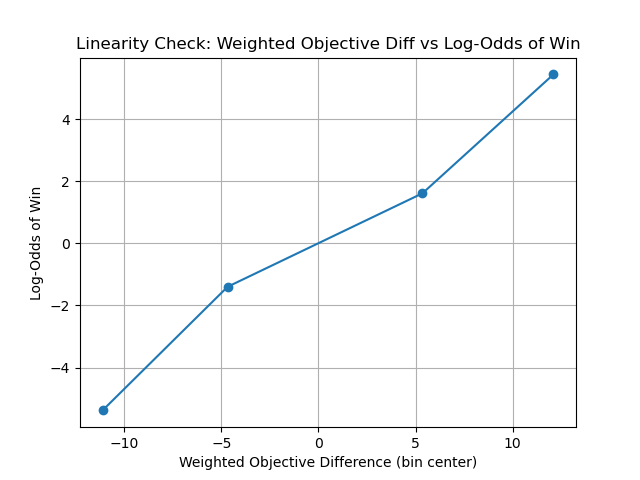
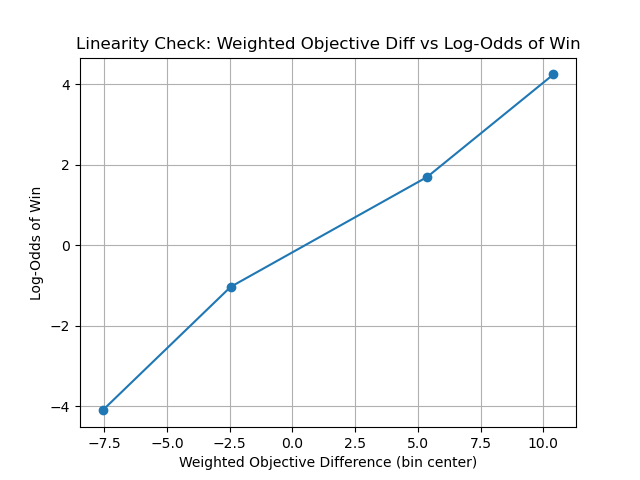
Looking into better version of the weighted obj diff metric, will clean up later

diff --git a/FeatureEng.py b/FeatureEng.py
@@ -1,6 +1,8 @@
 import pandas as pd
 import numpy as np
 from sklearn.preprocessing import StandardScaler
+import seaborn as sns
+import matplotlib.pyplot as plt
 
 teamdf = pd.read_csv('Data/teamdata')
 
@@ -33,16 +35,19 @@ teamdf['weighted_multikill'] = (
     4 * teamdf['pentakills']
 )
 
-# objective control metric
+
+# adjust obj control metric to look at if a team gets soul or not rather than number of dragons
+teamdf['dragonsoul'] = (teamdf['dragons'] == 4).astype(int)
 teamdf['weighted_objective_diff'] = (
-    (teamdf['dragons'] - teamdf['opp_dragons']) +
-    (teamdf['elders'] - teamdf['opp_elders']) * 2 +
-    (teamdf['heralds'] - teamdf['opp_heralds']) +
+    (teamdf['dragonsoul']) * 3 + 
+    (teamdf['elders'] - teamdf['opp_elders']) * 3 +
     (teamdf['barons'] - teamdf['opp_barons']) * 2 +
+    (teamdf['heralds'] - teamdf['opp_heralds']) +
     (teamdf['towers'] - teamdf['opp_towers']) +
     (teamdf['turretplates'] - teamdf['opp_turretplates']) +
-    (teamdf['inhibitors'] - teamdf['opp_inhibitors']) * 2
+    (teamdf['inhibitors'] - teamdf['opp_inhibitors'])
 )
+
 
 # game state at 10/15
 substring = 'at15'
@@ -108,14 +113,81 @@ scaled_df['gamestateat15'] = (scaled_df['golddiffat15'] +
                               scaled_df['deathdiffat15'])
 
 
+# what if you scaled everything and recalculated? would there be a significant difference?
+teamdf['dragonsoul'] = (teamdf['dragons'] == 4).astype(int)
 
+temp_binary_columns = ['dragonsoul'] #next add first to three towers, first mid tower, etc.
+continuous_columns = [col for col in teamdf.select_dtypes('number').columns if col not in temp_binary_columns]
 
-'''
-calculate metric for absolute gamestate @ 15
-- find diff between necessary items and then scale all items then add them?
-- in order to scale we can do standardization (z-score normalization) 
-        - only for lin models that have normally distributed data
-- or min-max scaling for distance related models like KNN
-- no need to scale for random forest, could be useful to scale the feature anyways
-'''
+scaler = StandardScaler()
+scaled_continuous = scaler.fit_transform(teamdf[continuous_columns])
 
+scaled_df = teamdf.copy()
+scaled_df[continuous_columns] = scaled_continuous  
+
+weights = {
+    'dragonsoul': 0.36,  
+    'elders': 0.075,
+    'barons': 0.62,
+    'inhibitors': 0.76,
+    'heralds': 0.24,
+    'towers': 0.89,
+    'turretplates': 0.26
+}
+
+# Create weighted objective difference
+scaled_df['weighted_objective_diff'] = (
+    (weights['dragonsoul'] * scaled_df['dragonsoul']) +
+    (weights['elders'] * (scaled_df['elders'] - scaled_df['opp_elders'])) +
+    (weights['barons'] * (scaled_df['barons'] - scaled_df['opp_barons'])) +
+    (weights['heralds'] * (scaled_df['heralds'] - scaled_df['opp_heralds'])) +
+    (weights['towers'] * (scaled_df['towers'] - scaled_df['opp_towers'])) +
+    (weights['turretplates'] * (scaled_df['turretplates'] - scaled_df['opp_turretplates'])) +
+    (weights['inhibitors'] * (scaled_df['inhibitors'] - scaled_df['opp_inhibitors']))
+)
+teamdf['weighted_objective_diff'] = scaled_df['weighted_objective_diff']
+
+selected_columns = ['dragonsoul', 'elders', 'barons', 'heralds', 'towers', 'turretplates', 'inhibitors', 'result']
+
+target = 'result'
+top_n = 20
+corr_matrix = teamdf[selected_columns].corr(numeric_only=True)
+
+top_corr = corr_matrix[target].sort_values(ascending=False).head(top_n)
+subset = corr_matrix.loc[top_corr.index, top_corr.index]
+
+plt.figure(figsize=(12,10))
+ax = sns.heatmap(
+    subset,
+    annot=True,
+    cmap='coolwarm',
+    linewidths=0.5
+)
+
+plt.xticks(rotation=45, ha='right', fontsize=10)
+plt.yticks(fontsize=10)
+plt.title(f'{top_n} Correlations w/ {target}')
+plt.tight_layout()
+plt.show()
+
+#______________
+target = 'result'
+top_n = 20
+corr_matrix = teamdf.corr(numeric_only=True)
+
+top_corr = corr_matrix[target].sort_values(ascending=False).head(top_n)
+subset = corr_matrix.loc[top_corr.index, top_corr.index]
+
+plt.figure(figsize=(12,10))
+ax = sns.heatmap(
+    subset,
+    annot=True,
+    cmap='coolwarm',
+    linewidths=0.5
+)
+
+plt.xticks(rotation=45, ha='right', fontsize=10)
+plt.yticks(fontsize=10)
+plt.title(f'{top_n} Correlations w/ {target}')
+plt.tight_layout()
+plt.show()

diff --git a/ValidatingMetrics.py b/ValidatingMetrics.py
@@ -1,8 +1,3 @@
-'''
-Seperate python file for the sake of organization and not having to run a large python file
-Evaluating linearity assumptions of data for feature engineering purposes
-'''
-
 import pandas as pd
 import numpy as np
 import seaborn as sns
@@ -28,15 +23,15 @@ teamdf['weighted_multikill'] = (
 )
 
 # objective control metric
-# can be improved because I don't think individual dragons matter until a team gets soul or soul point
+teamdf['dragonsoul'] = (teamdf['dragons'] == 4).astype(int)
 teamdf['weighted_objective_diff'] = (
-    (teamdf['dragons'] - teamdf['opp_dragons']) +
-    (teamdf['elders'] - teamdf['opp_elders']) * 2 +
-    (teamdf['heralds'] - teamdf['opp_heralds']) +
+    (teamdf['dragonsoul']) * 3 + 
+    (teamdf['elders'] - teamdf['opp_elders']) * 3 +
     (teamdf['barons'] - teamdf['opp_barons']) * 2 +
+    (teamdf['heralds'] - teamdf['opp_heralds']) +
     (teamdf['towers'] - teamdf['opp_towers']) +
     (teamdf['turretplates'] - teamdf['opp_turretplates']) +
-    (teamdf['inhibitors'] - teamdf['opp_inhibitors']) * 2
+    (teamdf['inhibitors'] - teamdf['opp_inhibitors'])
 )
 
 # game state at 10/15
